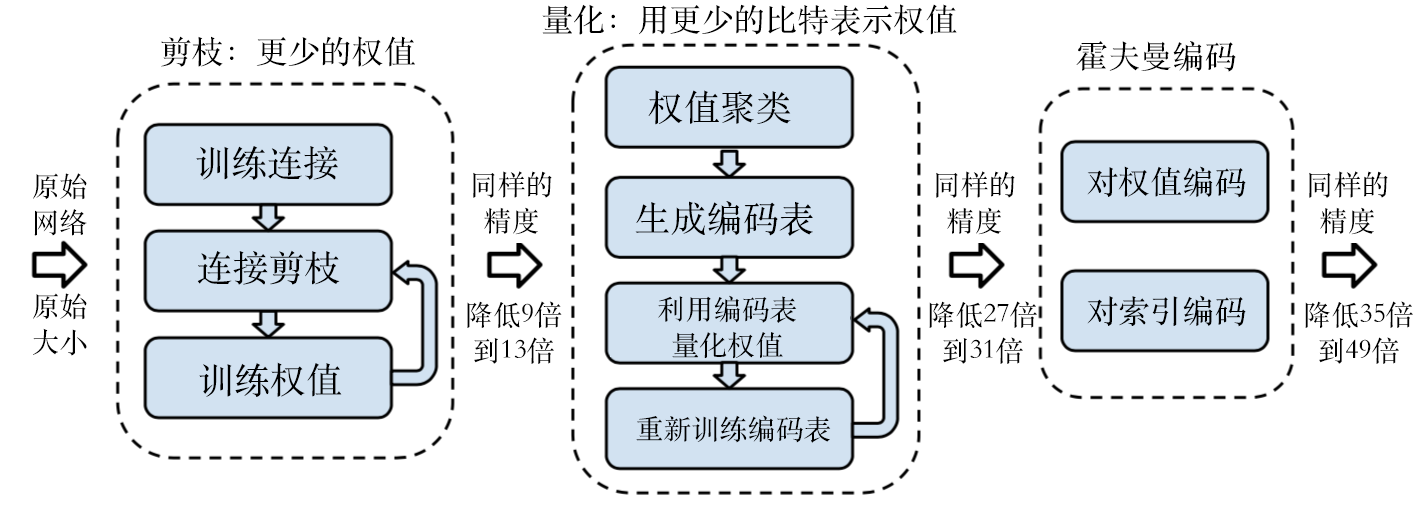
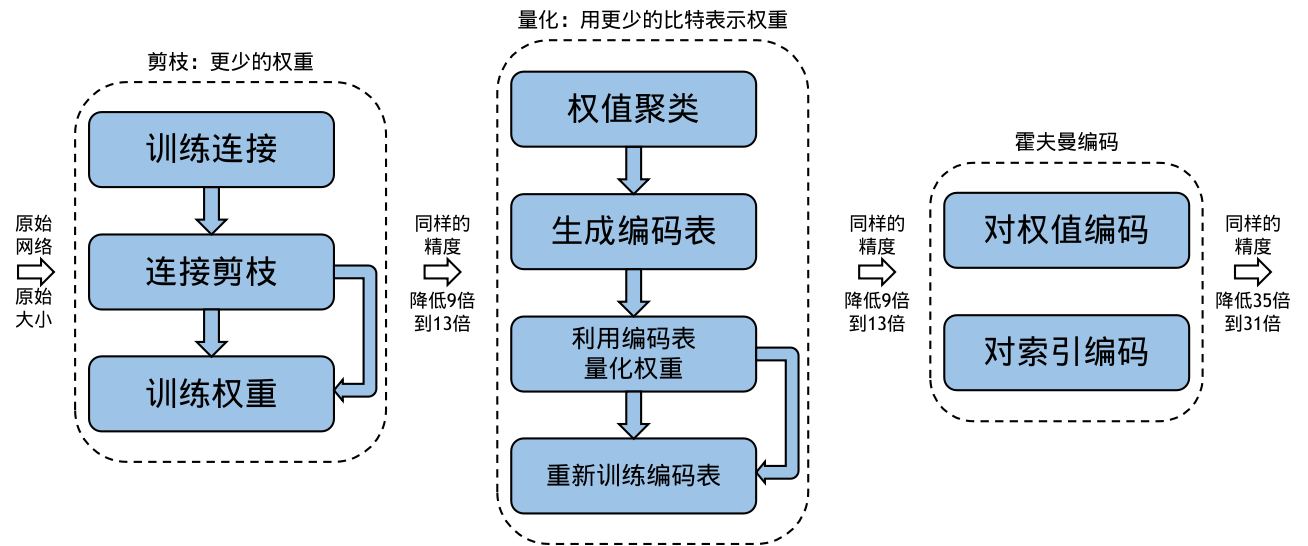
fix picture in chapter_model_deployment/model_compression.md (#287)

diff --git a/chapter_model_deployment/model_compression.md b/chapter_model_deployment/model_compression.md
@@ -96,7 +96,7 @@ $$\zeta_c=\frac{||w_c-E(w_c)||}{||\hat{w_c}-E(\hat{w_c})||}$$
 来说明如何进行网络修剪：如 :numref:`ch08-fig-deepcomp`所示，在去掉大部分的权值之后，深度卷积神经网络的精度将会低于其原始的精度。对剪枝后稀疏的神经网络进行微调，可以进一步提升压缩后网络的精度。剪枝后的模型可以进一步进行量化，使用更低比特的数据来表示权值；此外，结合霍夫曼（Huffman）编码可以进一步地降低深度神经网络的存储。
 
 ![Deep Compression([@han2015deep])](../img/ch08/deepcomp.png)
-:width:`700px`
+:width:`800px`
 :label:`ch08-fig-deepcomp`
 
 除了直接去除冗余的神经元之外，基于字典学习的方法也可以用来去掉深度卷积神经网络中无用的权值([@bagherinezhad2017lcnn])。通过学习一系列卷积核的基，可以把原始卷积核变换到系数域上并且它们稀疏。比如，Bagherinezhad等人([@bagherinezhad2017lcnn])将原始卷积核分解成卷积核的基和稀疏系数的加权线性组合。
@@ -113,10 +113,10 @@ $$\mathcal{L}_{KD}(\theta_S) = \mathcal{H}(o_S,\mathbf{y}) +\lambda\mathcal{H}(\
 
 其中，$\mathcal{H}(\cdot,\cdot)$是交叉熵函数，$o_S$和$o_T$分别是学生网络和教师网络的输出，$\mathbf{y}$是标签。公式 :eqref:`ch08-equ-c2Fcn_distill`中的第一项使得学生神经网络的分类结果接近预期的真实标签，而第二项的目的是提取教师神经网络中的有用信息并传递给学生神经网络，$\lambda$是一个权值参数用来平衡两个目标函数。$\tau(\cdot)$是一个软化（soften）函数，将网络输出变得更加平滑。
 
-公式 :eqref:`ch08-equ-c2Fcn_distill`仅仅从教师神经网络分类器输出的数据中提取有价值的信息，并没有从其它中间层去将教师神经网络的信息进行挖掘。因此，Romero等人[@FitNet]）进一步地开发了一种学习轻型学生神经网络的方法，该算法可以从教师神经网络中任意的一层来传递有用的信息给学生神经网络。此外，事实上，并不是所有的输入数据对卷积神经网络的计算和完成后续的任务都是有用的。例如，在一张包含一个动物的图像中，对分类和识别结果比较重要的是动物所在的区域，而不是那些无用的背景信息。所以，有选择性地从教师神经网络的特征图中提取信息是一个更高效的方式。于是，Zagoruyko和Komodakis（[@attentionTS]）提出了一种基于感知（attention）损失函数的学习方法来提升学生神经网络的性能，如 :numref:`ch08-fig-AttentionTS`所示。该算法在学习学生神经网络的过程中，引入了Attention模块，选择性地将教师神经网络中的信息传递给学生神经网络，并帮助其进行训练。
+公式 :eqref:`ch08-equ-c2Fcn_distill`仅仅从教师神经网络分类器输出的数据中提取有价值的信息，并没有从其它中间层去将教师神经网络的信息进行挖掘。因此，Romero等人[@FitNet]）进一步地开发了一种学习轻型学生神经网络的方法，该算法可以从教师神经网络中任意的一层来传递有用的信息给学生神经网络。此外，事实上，并不是所有的输入数据对卷积神经网络的计算和完成后续的任务都是有用的。例如，在一张包含一个动物的图像中，对分类和识别结果比较重要的是动物所在的区域，而不是那些无用的背景信息。所以，有选择性地从教师神经网络的特征图中提取信息是一个更高效的方式。于是，Zagoruyko和Komodakis（[@attentionTS]）提出了一种基于感知（attention）损失函数的学习方法来提升学生神经网络的性能，公式 :eqref:`ch08-equ-c2Fcn_distill`仅仅从教师神经网络分类器输出的数据中提取有价值的信息，并没有从其它中间层去将教师神经网络的信息进行挖掘。因此，Romero等人[@FitNet]）进一步地开发了一种学习轻型学生神经网络的方法，该算法可以从教师神经网络中任意的一层来传递有用的信息给学生神经网络。此外，事实上，并不是所有的输入数据对卷积神经网络的计算和完成后续的任务都是有用的。例如，在一张包含一个动物的图像中，对分类和识别结果比较重要的是动物所在的区域，而不是那些无用的背景信息。所以，有选择性地从教师神经网络的特征图中提取信息是一个更高效的方式。于是，Zagoruyko和Komodakis（[@attentionTS]）提出了一种基于感知（attention）损失函数的学习方法来提升学生神经网络的性能，如 :numref:`ch08-fig-distillation`所示。该算法在学习学生神经网络的过程中，引入了感知模块Attention，选择性地将教师神经网络中的信息传递给学生神经网络，并帮助其进行训练。感知图可以识别输入图像不同位置对最终分类结果的重要性，并从教师网络传递到学生网络。
 
-![文献([@attentionTS])所提出的教师神经网络-学生神经网络学习算法，该算法在学习学生神经网络的过程中，引入了感知模块（Attention），选择性地将教师神经网络中的信息传递给学生神经网络，并帮助其进行训练。感知图可以识别输入图像不同位置对最终分类结果的重要性，并从教师网络传递到学生网络。](../img/ch08/AttentionTS.png)
-:width:`800px`
-:label:`ch08-fig-AttentionTS`
+![一种基于感知（attention）的教师神经网络-学生神经网络学习算法](../img/ch08/distillation.png)
+:width:`500px`
+:label:`ch08-fig-distillation`
 
 知识蒸馏是一种有效的帮助小网络优化的方法，能够进一步和剪枝、量化等其他压缩方法结合，训练得到精度高、计算量小的高效模型。
